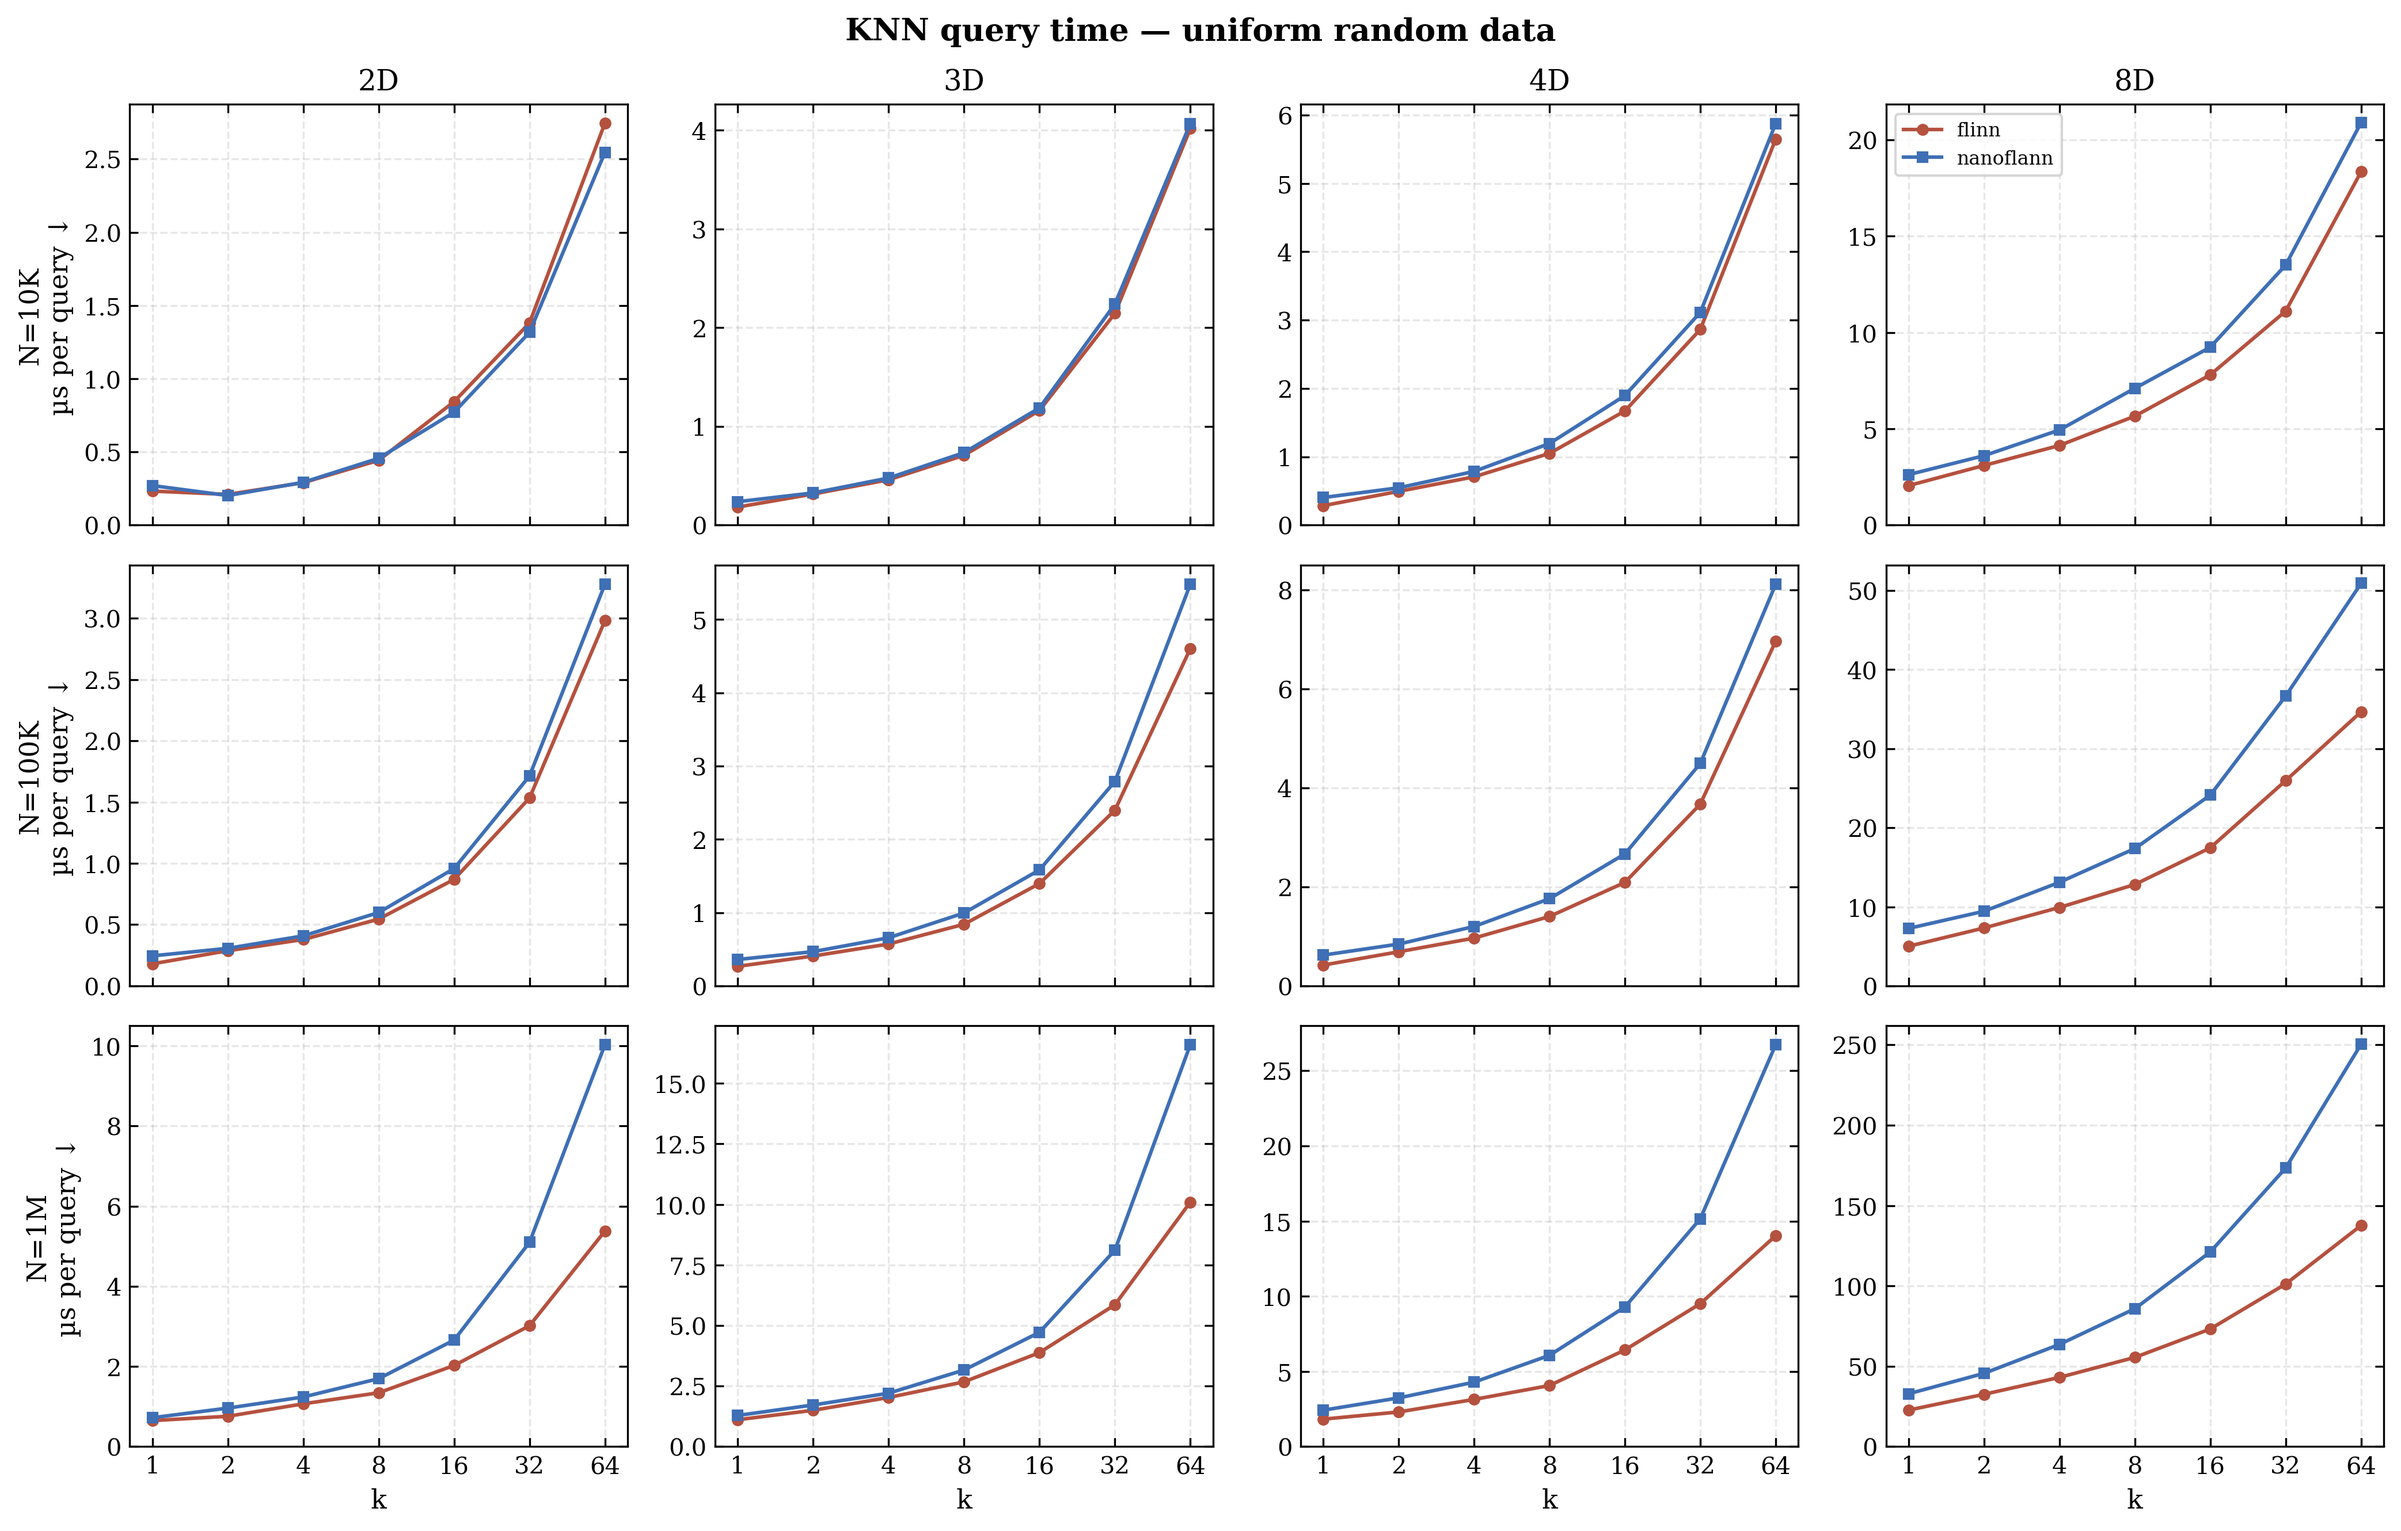
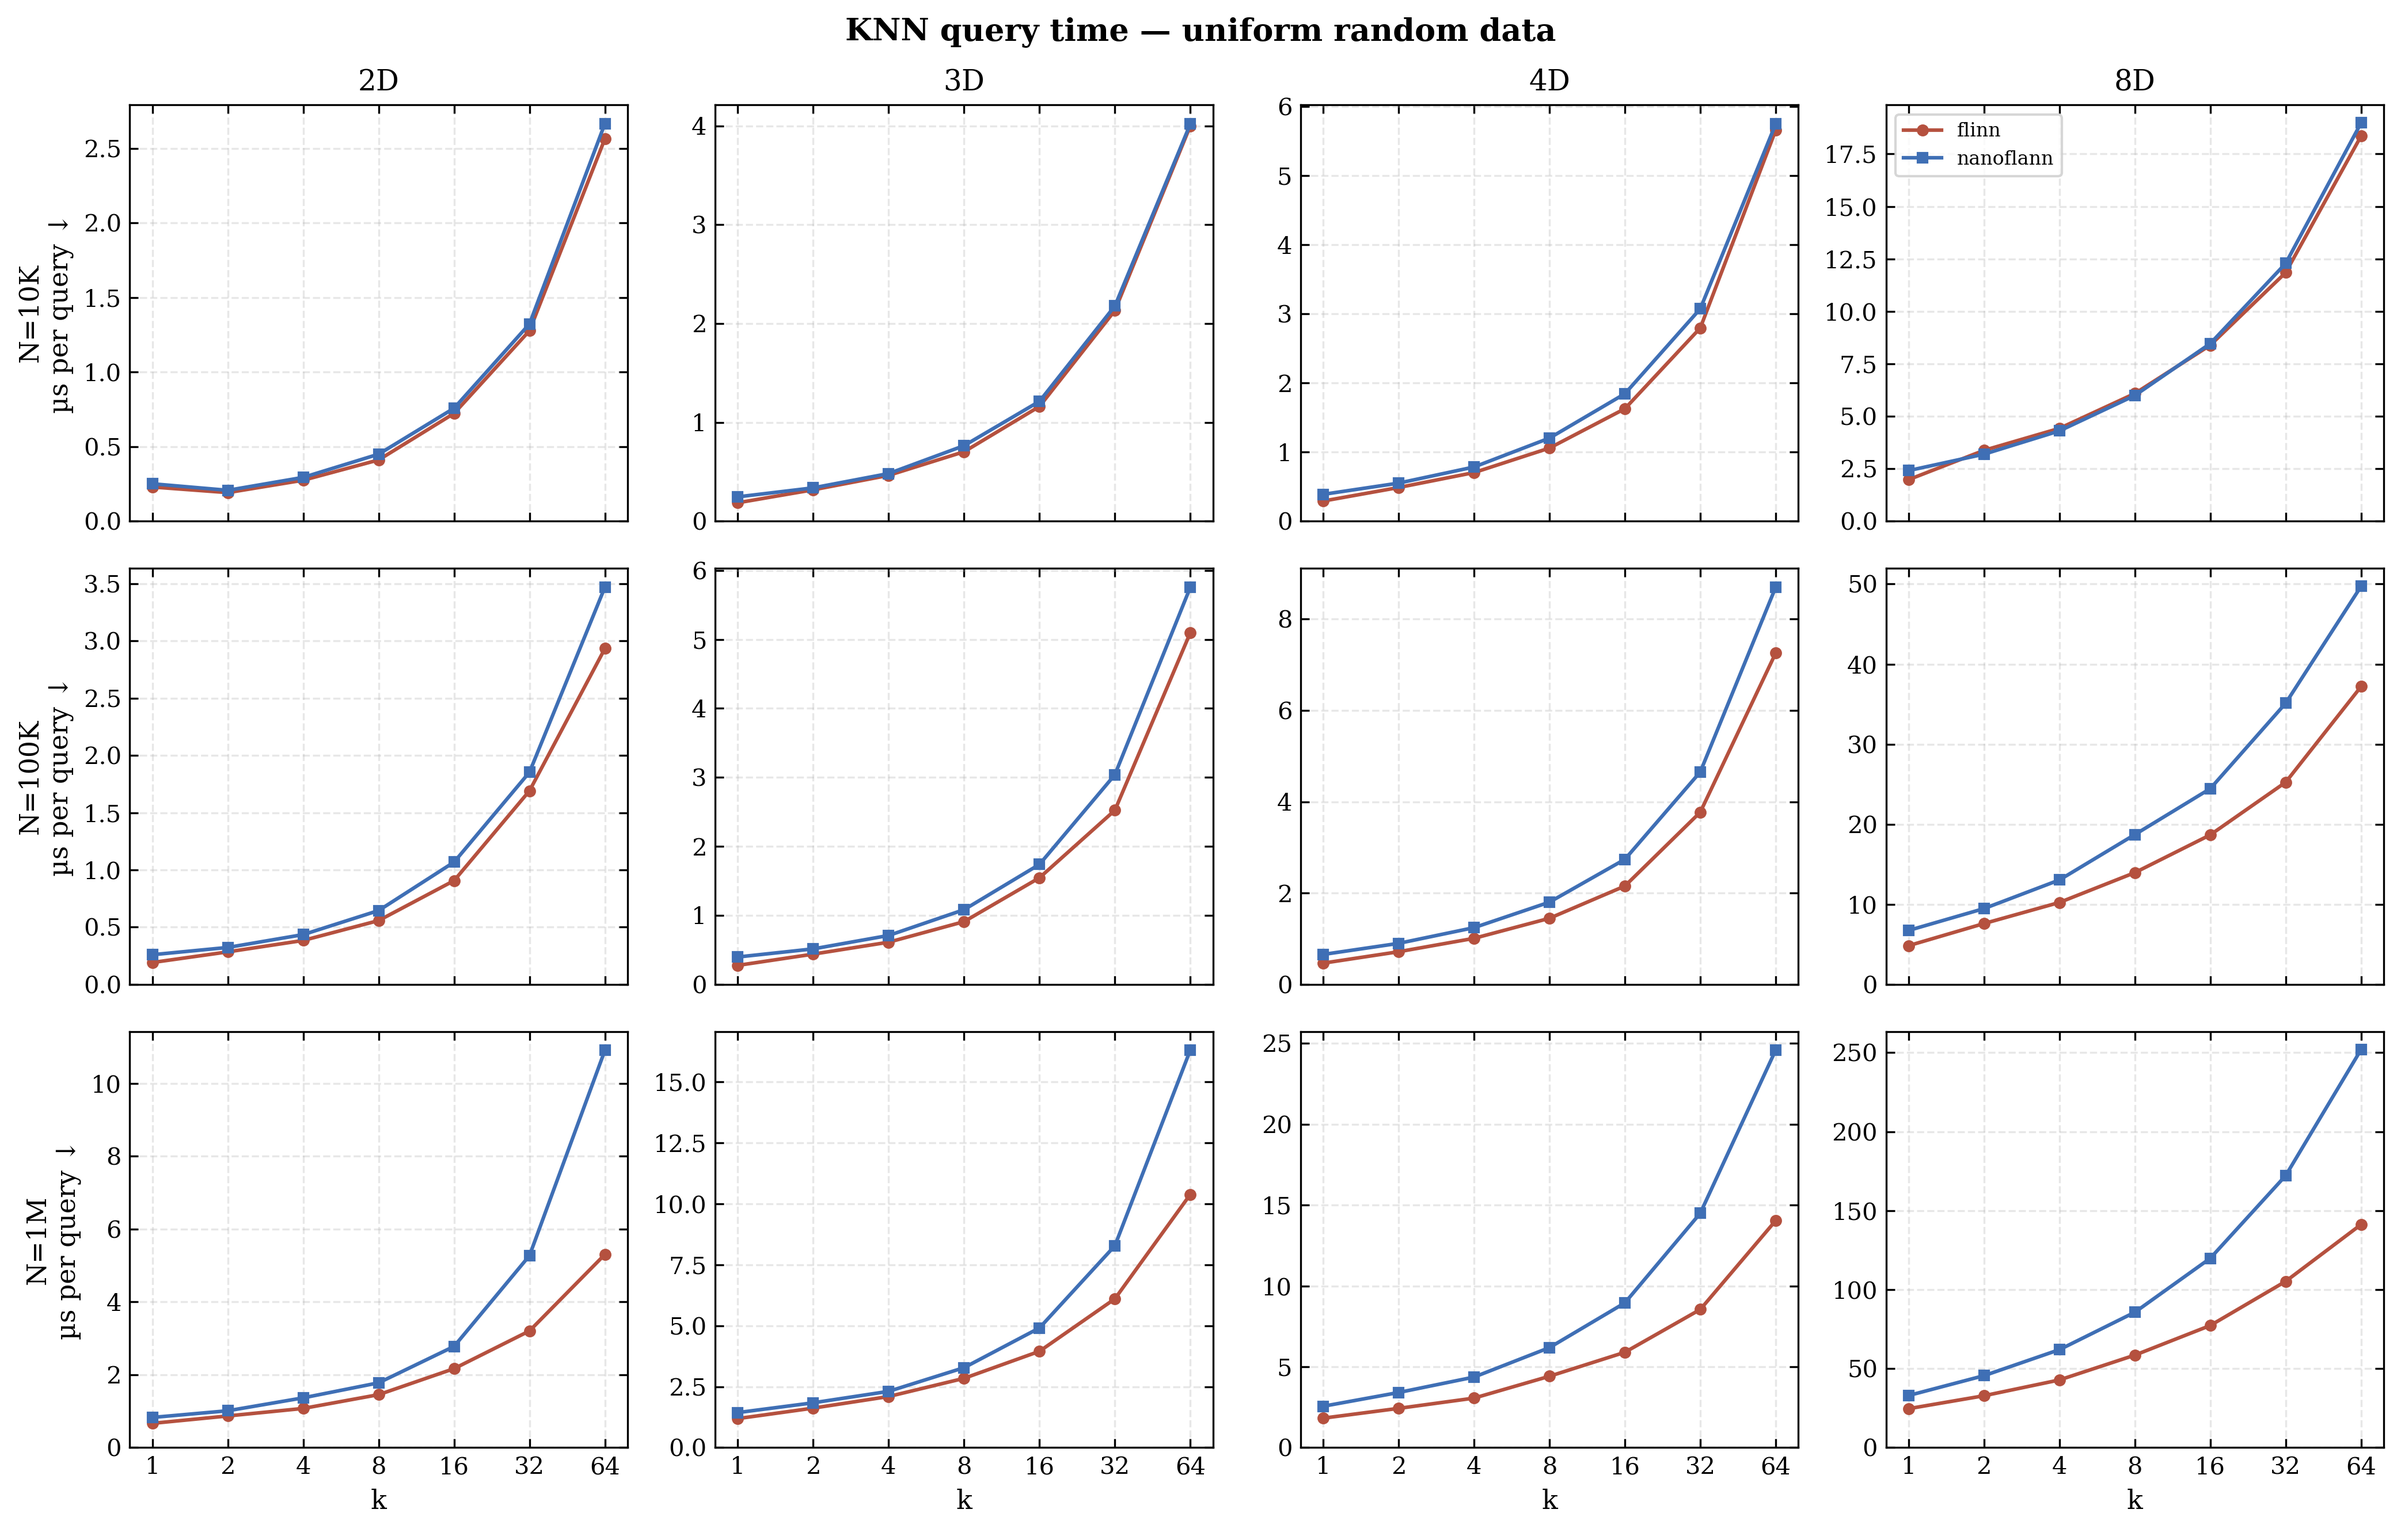
Make sure benchmarks aren't doing 'exact' queries

diff --git a/C++/bench/benchmark.cpp b/C++/bench/benchmark.cpp
@@ -178,8 +178,31 @@ template <int Dims, int BucketSize> void runRealDataset(const std::string& path,
     for (std::size_t i = 0; i < indices.size(); i++)
         indices[i] = i;
     std::shuffle(indices.begin(), indices.end(), rng);
+
+    flinn::FlinnIndex<int, Dims, BucketSize> qtree;
+    for (std::size_t i = 0; i < points.size(); i++)
+        qtree.addPoint(points[i], static_cast<int>(i), false);
+    qtree.splitOutstanding();
+    auto qsearcher = qtree.searcher();
+
     for (std::size_t i = 0; i < NQ; i++)
-        queries[i] = points[indices[i]];
+    {
+        const auto& neighbors = qsearcher.search(points[indices[i]], std::numeric_limits<double>::max(), 3);
+
+        constexpr double weights[] = {3.0, 2.0, 1.0};
+        double wsum = 0.0;
+        std::array<double, Dims> centroid{};
+        for (std::size_t j = 0; j < neighbors.size(); j++)
+        {
+            double w = weights[j];
+            wsum += w;
+            for (int d = 0; d < Dims; d++)
+                centroid[d] += w * points[neighbors[j].payload][d];
+        }
+        for (int d = 0; d < Dims; d++)
+            centroid[d] /= wsum;
+        queries[i] = centroid;
+    }
 
     std::cerr << "  " << name << ": " << points.size() << " points, D=" << Dims << "\n";
     for (int i = 0; i < NK; i++)
